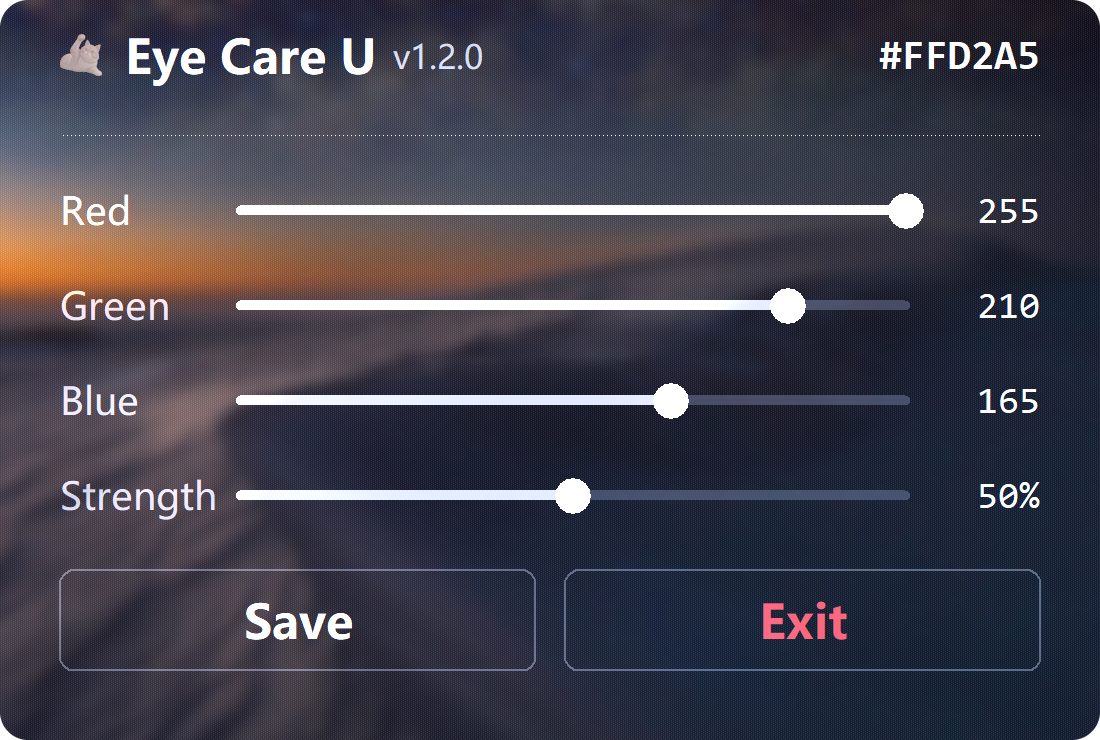
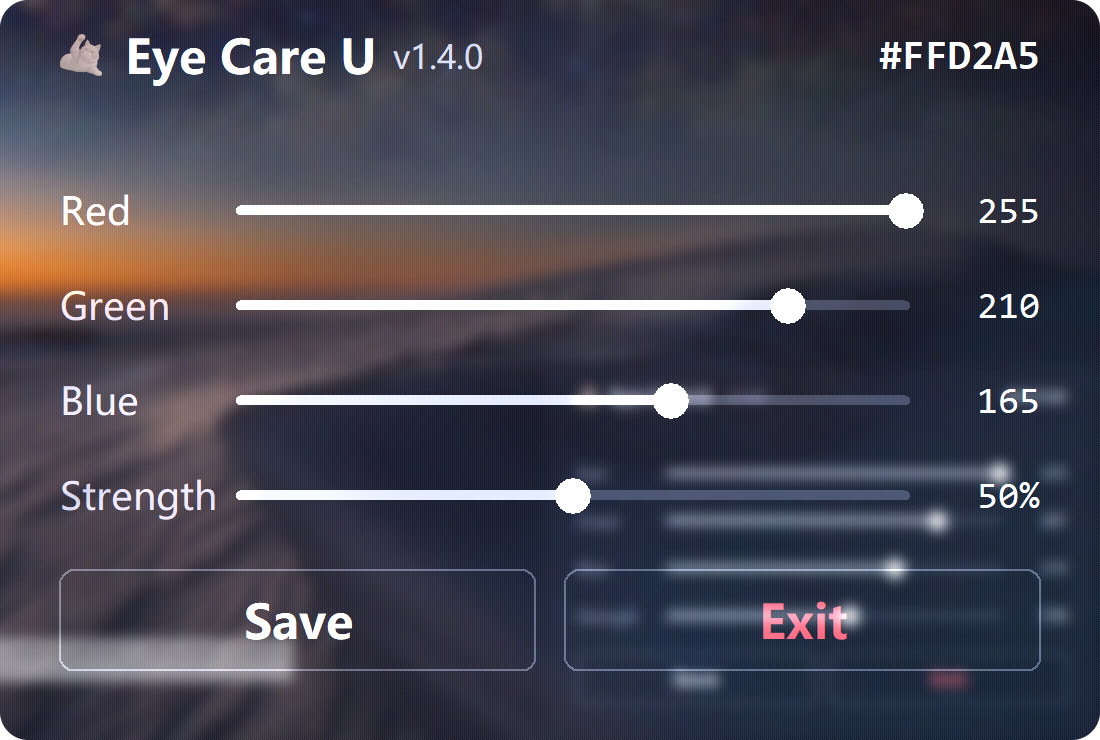
fix: 移除面板头部白色点画分隔线（渲染放大后显形成虚线，实机近乎不可见，两处不一致）

diff --git a/eye_care_u.py b/eye_care_u.py
@@ -652,9 +652,6 @@ class GlassPanel:
         cv.create_text(self.x1, 22, anchor="e", text=tint,
                        fill=TEXT_HI, font=self.f_mono)
 
-        cv.create_line(self.x0, 54, self.x1, 54, fill="#FFFFFF",
-                       stipple="gray12", width=1)
-
         # 滑杆
         for key, label, lo, hi, yc in self.rows:
             cv.create_text(self.x0, yc, anchor="w", text=label,
